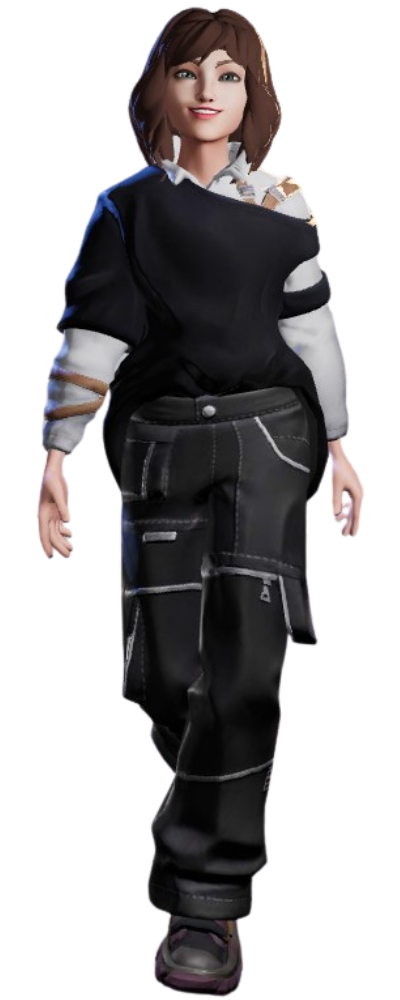
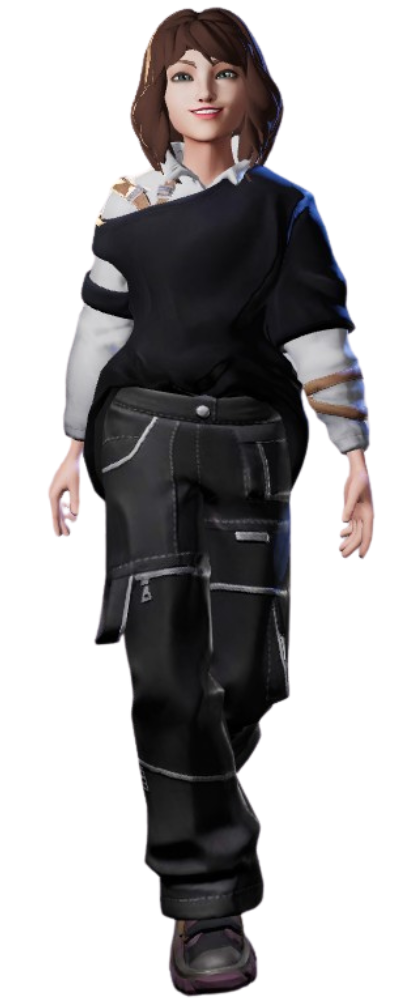
new images:

Changed region(s): [[0.09, 0.0, 0.96, 1.0]]

diff --git a/client/components/HeroBox.tsx b/client/components/HeroBox.tsx
@@ -1,13 +1,13 @@
 // a box with a opening statment, my img and quick link buttons
-import img from '../Images/Adrib_logo.png'
+import img from '../Images/Advertars/3D-Advtar.png'
 
 function HeroBox() {
   return (
     <>
       <div className="box">
         <p className="subheading">
-          <b>Kia ora! </b>I'm a Kiwi full-stack developer in Auckland who loves
-          blending creativity with technology.{' '}
+          <b>Kia ora! </b>I&apos;m a Kiwi full-stack developer in Auckland who
+          loves blending creativity with technology.{' '}
         </p>
         <div className="hero-box">
           <p>
@@ -18,7 +18,7 @@ function HeroBox() {
             strong collaboration and communication skills. <br />
             I love supportive, collaborative environments and am always eager to
             learn and grow. <br />
-            Check out my projects below, or send me a message. Let's build
+            Check out my projects below, or send me a message. Let&apos;s build
             something great together!
           </p>
           <img src={img} alt="cartoon drawing of adriana by adriana" />
